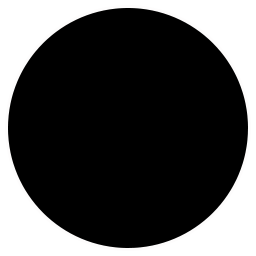
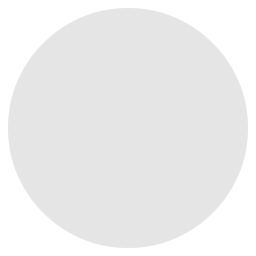
Add progress bars

diff --git a/AnimatedTokenMaker/Controls/LoadingControl.xaml b/AnimatedTokenMaker/Controls/LoadingControl.xaml
@@ -5,10 +5,10 @@
              xmlns:d="http://schemas.microsoft.com/expression/blend/2008" 
              xmlns:local="clr-namespace:AnimatedTokenMaker.Controls"
              mc:Ignorable="d" 
-             d:DesignHeight="155" d:DesignWidth="500">
-    <Grid Margin="5" Width="500" Height="150">
+             d:DesignHeight="155" d:DesignWidth="480">
+    <Grid Margin="5" Width="480" Height="150">
         <Border BorderThickness="1" BorderBrush="Black" Background="White">
-            <Label Content="Loading..." Margin="50" />
+            <Label Content="Loading source.." Margin="50" FontSize="24" />
         </Border>
     </Grid>
 </UserControl>

diff --git a/AnimatedTokenMaker/MainWindow.xaml b/AnimatedTokenMaker/MainWindow.xaml
@@ -36,6 +36,7 @@
                         </Border>
                         <Button Content="Generate" Click="Save_Click" Margin="5,25,5,5" Height="25" />
                         <Slider Name="FrameSlider" Minimum="0" Maximum="100" Value="{Binding PreviewFrame}" Thumb.DragCompleted="FrameSlider_DragCompleted" />
+                        <ProgressBar Name="ExportProgress" Visibility="Hidden" Height="50" Margin="5"/>
                     </StackPanel>
                 </StackPanel>
             </Border>

diff --git a/AnimatedTokenMaker/TokenMaker/TokenMaker.cs b/AnimatedTokenMaker/TokenMaker/TokenMaker.cs
@@ -50,7 +50,11 @@ namespace AnimatedTokenMaker
                     var borderSample = borderImage.GetPixel(x, y);
                     var pixel = borderSample;
 
-                    if (borderSample.R + borderSample.G + borderSample.B == 0)
+                    if (borderSample.A == 0)
+                    {
+                        pixel = Color.FromArgb(0, 0, 0, 0);
+                    }
+                    else
                     {
                         if (_layers.Count == 0)
                         {
@@ -62,8 +66,27 @@ namespace AnimatedTokenMaker
                         }
                     }
 
-                    var finalPixel = Color.FromArgb(borderSample.A, pixel.R, pixel.G, pixel.B);
+                    var finalPixel = Color.FromArgb(pixel.A, pixel.R, pixel.G, pixel.B);
                     newImage.SetPixel(x, y, finalPixel);
+                }
+            }
+
+            for (int y = 0; y < newImage.Height; y++)
+            {
+                for (int x = 0; x < newImage.Width; x++)
+                {
+                    var borderpx = borderImage.GetPixel(x, y);
+                    var pixel = newImage.GetPixel(x, y);
+
+                    if (borderpx.A == 255)
+                    {
+                        pixel = borderpx;
+                    }
+                    else
+                    {
+                        pixel = pixel.Add(borderpx);
+                    }
+                    newImage.SetPixel(x, y, pixel);
                 }
             }
 
@@ -107,7 +130,7 @@ namespace AnimatedTokenMaker
                     }
                 }
 
-                newColor = Color.FromArgb(1, r, g, b);
+                newColor = Color.FromArgb(255, r, g, b);
             }
 
             return newColor;
@@ -118,19 +141,37 @@ namespace AnimatedTokenMaker
             return _layers.Select(l => l.GetFrame(frame, borderSize)).Reverse().ToList();
         }
 
-        public void ExportToken()
+
+
+        public event TokenMakerDelegates.ExportLayerCompletedDelegate OnExportLayerCompleted;
+        public event TokenMakerDelegates.ExportLayerStartedDelegate OnExportLayerStarted;
+
+        private void LayerExportStarted(int layer, int total)
+        {
+            OnExportLayerStarted?.Invoke(layer, total);
+        }
+
+        private void LayerExportCompleted(int layer, int total)
+        {
+            OnExportLayerCompleted?.Invoke(layer, total);
+        }
+
+        public void ExportToken(string filename)
         {
             var outputFolder = GetOutputFolder();
-
-            for (int i = 0; i < GetFrameCount(); i++)
+            var totalFrames = GetFrameCount();
+            for (int i = 0; i < totalFrames; i++)
             {
+                LayerExportStarted(i, totalFrames);
                 var newImage = GetCombinedImageForFrame(i);
+
+                LayerExportCompleted(i, totalFrames);
                 newImage.Save(Path.Combine(outputFolder, "t" + i.ToString("").PadLeft(4, '0') + ".png"), ImageFormat.Png);
             }
 
-            _videoExporter.GenerateVideoFromFolder(outputFolder);
+            _videoExporter.GenerateVideoFromFolder(outputFolder, filename);
 
-            Process.Start("explorer", $"\"{outputFolder}\"");
+            Process.Start("explorer", $"\"{Path.GetDirectoryName(filename)}\"");
         }
 
         public int GetFrameCount()

diff --git a/AnimatedTokenMaker/MainWindow.xaml.cs b/AnimatedTokenMaker/MainWindow.xaml.cs
@@ -47,10 +47,20 @@ namespace AnimatedTokenMaker
             _sourceFactory = new SourceFactory(_ffmpegService);
 
             _tokenMaker = new TokenMaker(new VideoExporter(_ffmpegService));
+            _tokenMaker.OnExportLayerCompleted += OnExportLayerCompleted;
 
             SetBorder(GetBorders()[0]);
 
             InitializeComponent();
+        }
+
+        private void OnExportLayerCompleted(int layer, int total)
+        {
+            Dispatcher.BeginInvoke((Action)(() =>
+            {
+                ExportProgress.Maximum = total;
+                ExportProgress.Value = layer;
+            }));
         }
 
         public event PropertyChangedEventHandler PropertyChanged;
@@ -88,11 +98,11 @@ namespace AnimatedTokenMaker
             {
                 var preview = _tokenMaker.GetPreview(frame);
 
-                var op = Dispatcher.BeginInvoke((Action)(() =>
-                {
-                    Preview = preview.ToBitmapImage();
-                    Changed(nameof(Preview));
-                }));
+                Dispatcher.BeginInvoke((Action)(() =>
+               {
+                   Preview = preview.ToBitmapImage();
+                   Changed(nameof(Preview));
+               }));
             });
         }
 
@@ -190,12 +200,33 @@ namespace AnimatedTokenMaker
 
         private void Save_Click(object sender, RoutedEventArgs e)
         {
-            IsEnabled = false;
-            Task.Run(() =>
+            var sfd = new SaveFileDialog
             {
-                _tokenMaker.ExportToken();
-                Dispatcher.BeginInvoke(DispatcherPriority.Normal, new Action(() => IsEnabled = true));
-            });
+                AddExtension = true,
+                DefaultExt = ".webm",
+                Filter = "webm files (*.webm)|*.webm"
+            };
+
+            sfd.ShowDialog();
+
+            if (!string.IsNullOrEmpty(sfd.FileName))
+            {
+                IsEnabled = false;
+                ExportProgress.Visibility = Visibility.Visible;
+
+                Directory.CreateDirectory(Path.GetDirectoryName(sfd.FileName));
+
+                Task.Run(() =>
+                {
+                    _tokenMaker.ExportToken(sfd.FileName);
+                    Dispatcher.BeginInvoke(DispatcherPriority.Normal, new Action(() =>
+                    {
+                        IsEnabled = true;
+                        ExportProgress.Visibility = Visibility.Hidden;
+                        ExportProgress.Value = 0;
+                    }));
+                });
+            }
         }
 
         private void StartAddLayerView(string file)

diff --git a/AnimatedTokenMaker/ColorExtensions.cs b/AnimatedTokenMaker/ColorExtensions.cs
@@ -1,0 +1,43 @@
+using System;
+using System.Drawing;
+
+namespace AnimatedTokenMaker
+{
+    public static class ColorExtensions
+    {
+        private const int MIN = 0;
+        private const int MAX = 255;
+
+        private const float MAXf = 255f;
+
+        public static Color Multiply(this Color color, Color other)
+        {
+            return Color.FromArgb(
+                (int)((color.A * other.A) / MAXf),
+                (int)((color.R * other.R) / MAXf),
+                (int)((color.G * other.G) / MAXf),
+                (int)((color.B * other.B) / MAXf));
+        }
+
+        public static Color SetAlpha(this Color color, int alpha)
+        {
+            return Color.FromArgb(alpha, color);
+        }
+
+        public static Color Subtract(this Color color, Color other)
+        {
+            return Color.FromArgb(Math.Max(MIN, color.A - other.A),
+                                  Math.Max(MIN, color.R - other.R),
+                                  Math.Max(MIN, color.G - other.G),
+                                  Math.Max(MIN, color.B - other.B));
+        }
+
+        public static Color Add(this Color color, Color other)
+        {
+            return Color.FromArgb(Math.Min(MAX, color.A + other.A),
+                                  Math.Min(MAX, color.R + other.R),
+                                  Math.Min(MAX, color.G + other.G),
+                                  Math.Min(MAX, color.B + other.B));
+        }
+    }
+}

diff --git a/AnimatedTokenMaker/Exporter/VideoExporter.cs b/AnimatedTokenMaker/Exporter/VideoExporter.cs
@@ -1,6 +1,4 @@
-using System.IO;
-
-namespace AnimatedTokenMaker.Exporter
+namespace AnimatedTokenMaker.Exporter
 {
     public class VideoExporter : IVideoExporter
     {
@@ -11,14 +9,13 @@ namespace AnimatedTokenMaker.Exporter
             _ffmpegService = ffmpegService;
         }
 
-        public string GenerateVideoFromFolder(string output, string pattern = "t%04d.png")
+        public void GenerateVideoFromFolder(string output, string filename)
         {
-            var outputFile = Path.Combine(output, "output.webm");
+            string pattern = "t%04d.png";
+
             var sourceFolder = $"{output}\\{pattern}";
 
-            _ffmpegService.EncodeFolderAsWebm(outputFile, sourceFolder);
-
-            return outputFile;
+            _ffmpegService.EncodeFolderAsWebm(filename, sourceFolder);
         }
     }
 }

diff --git a/AnimatedTokenMaker/Border/BorderImage.cs b/AnimatedTokenMaker/Border/BorderImage.cs
@@ -44,19 +44,10 @@ namespace AnimatedTokenMaker.Border
             {
                 for (int x = 0; x < _coloredBorder.Width; x++)
                 {
-                    var px = _border.GetPixel(x, y);
-
-                    if (px.A == 0 || (px.R == 0 && px.G == 0 && px.B == 0))
-                    {
-                        _coloredBorder.SetPixel(x, y, px);
-                    }
-                    else
-                    {
-                        _coloredBorder.SetPixel(x, y, Color.FromArgb(px.A, _color));
-                    }
+                    var borderPx = _border.GetPixel(x, y);
+                    _coloredBorder.SetPixel(x, y, borderPx.Multiply(_color));
                 }
             }
         }
-
     }
 }

diff --git a/AnimatedTokenMaker/TokenMaker/ITokenMaker.cs b/AnimatedTokenMaker/TokenMaker/ITokenMaker.cs
@@ -6,14 +6,26 @@ namespace AnimatedTokenMaker
 {
     public interface ITokenMaker
     {
-        void ExportToken();
+        void ExportToken(string fileName);
+
         Bitmap GetPreview(int frame = 0);
+
         void LoadBorder(IBorderImage border);
+
         void AddLayer(ISourceFile source);
+
         void MoveLayerDown(ISourceFile layer);
+
         void MoveLayerUp(ISourceFile layer);
+
         void RemoveLayer(ISourceFile layer);
+
         Size GetBorderSize();
+
         void SetBorderColor(Color color);
+
+        event TokenMakerDelegates.ExportLayerCompletedDelegate OnExportLayerCompleted;
+
+        event TokenMakerDelegates.ExportLayerStartedDelegate OnExportLayerStarted;
     }
 }

diff --git a/AnimatedTokenMaker/LayerDelegates.cs b/AnimatedTokenMaker/LayerDelegates.cs
@@ -12,11 +12,4 @@ namespace AnimatedTokenMaker
 
         public delegate void LayerChangedDelegate(ISourceFile layer);
     }
-
-    public static class TokenMakerDelegates
-    {
-        public delegate void LayerDrawnDelegate(int layer, int total);
-
-        public delegate void ExportLayerDelegate(int layer, int total);
-    }
 }

diff --git a/AnimatedTokenMaker/TokenMakerDelegates.cs b/AnimatedTokenMaker/TokenMakerDelegates.cs
@@ -1,0 +1,12 @@
+using AnimatedTokenMaker.Source;
+
+namespace AnimatedTokenMaker
+{
+
+    public static class TokenMakerDelegates
+    {
+        public delegate void ExportLayerStartedDelegate(int layer, int total);
+
+        public delegate void ExportLayerCompletedDelegate(int layer, int total);
+    }
+}

diff --git a/AnimatedTokenMaker/Exporter/IVideoExporter.cs b/AnimatedTokenMaker/Exporter/IVideoExporter.cs
@@ -2,6 +2,6 @@
 {
     public interface IVideoExporter
     {
-        string GenerateVideoFromFolder(string output, string pattern = "t%04d.png");
+        void GenerateVideoFromFolder(string output, string filename);
     }
 }

diff --git a/AnimatedTokenMaker/Source/StaticImageSource.cs b/AnimatedTokenMaker/Source/StaticImageSource.cs
@@ -1,5 +1,4 @@
 using System.Drawing;
-using System.Drawing.Imaging;
 
 namespace AnimatedTokenMaker.Source
 {
